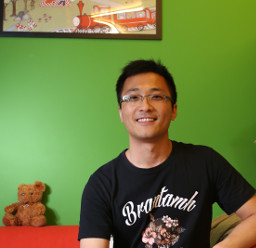
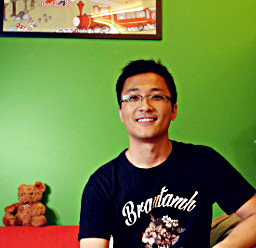
Update broken links; add metadata articles

diff --git a/source/_posts/2018-01-11-metadata-part2.md b/source/_posts/2018-01-11-metadata-part2.md
@@ -1,0 +1,62 @@
+---
+title: 元数据的可计算化反（中）
+date: 2018-01-11
+comments: true
+categies:
+  - DataScience
+tags:
+  - Metadata
+---
+
+题解：这个《元数据》系列本计划介绍一种有关数据的科技讯息，上篇完成后有读者反馈并非人人都懂技术，首当其冲便是这个看不懂的反人类题目。正巧元旦节期出游了趟鲁迅先生故居，从繁糜商业气息中依稀有些关于那个过往时代的见闻。细思之下，我所目标分享的，其实不是数据也不是科技本身，而是这个和数据科技息息相关的时代。而这些狄更斯多年前已经总结完了，无妨对于当下这个时代，填些骨肉，说道说道我眼中这个“失控”的数据时代。
+
+在上一篇中我们提到了人类百万年进化出的一项功能“记忆惰性”：对纷繁复杂的外界信息经过深加工，以类似偷懒的方式，形成记忆知识并储存在大脑神经元中。因此随着年龄的增长，记忆神经元退化，甚至部分脑细胞老化导致相关知识也随之消失，也就是医学上的“阿尔兹海默症”。
+
+人类在进化过程中，不断寻找新的工具弥补自身的短板。从蒸汽革命到电气革命到计算机革命，从体力解放到脑力解放，一次次的技术更新在不断刷新人类的工具包，也不断刷新着追求更大的解放的野心。
+
+在最近一次的计算机革命中（开始于20世纪五六十年代），人们努力寻找各种工具克服自身的“记忆惰性”：不想耗费能量处理复杂的计算，电子计算机由此诞生（电影《模仿游戏》）；服务器代替了图书馆，互联网网页的扩张速度远远超过了书本的页数增长；社交网络帮你记录了所有的朋友关系和动态，大脑所需的记忆便是一个网址以及账号；机器学习算法和AI智能技术的最新进展，让人们再次萌生冲动毅然准备放弃这个上帝亲自创造的智慧灵魂。
+
+正是由于人类的“记忆惰性”这一生物制约，促进了20世纪中后期以来在计算机技术上的不断推陈出新，不断追求极致。这是最好的时代。
+
+诚然，一边是进化了百万年以上的躯体，一边是从诞生到繁荣不过六七十年的技术，二者所包含的信息匹敌远远不在一个量级。我们还有很长的路要走。人们诸多的憧憬和YY。这也是最坏的时代，一个有些失控的时代。
+
+失控不仅在主观，也在客观。计算信息技术在初期表现出很强的经济效应，这种繁荣挤压了以往的经济领域，更多的资源将目光投向“新欢”，而冷落了“旧爱”。
+
+这一繁荣正面上得益于两个信息不对称：一个早期高科技的局部繁荣与全球落后之间的不对称，这个不对称造就了少数几个早期信息强国；另一个是高科技扩散在时间上的不对称，这个不对称造就了一些较早接触到这一先机的富裕群体（体现在个人层面便是互联网业鼓吹的一夜暴富）。
+
+在整个发展尺度上看的时候，我们依然处在计算机革命的余波之中，只是波的能量在不断降低，变得有些“波澜不惊”。因为随着信息的传播时间越长、范围越广，上述两个不对称性消失得越快。结合当下，“互联网+”的声嘶力竭的呐喊，仅仅是这一波澜上的一次小小的回音，毕竟，这只是一次努力寻找当前世界中信息不对称的缝隙，而不是发现一个处女的旷地或峡谷。
+
+而之前高不对称的信息时代积累的经济红利，就像一头被困的发情公牛，也对这个所谓的“余波”阶段做了最好的注脚。在商业发展初期，尤其是农业为支撑经济的时代，商业的短期繁荣往往预示着农业的衰弱（吴晓波《浩荡两千年》）。类似地，在出现新的信息不对称机遇之前，以往的资本积累开始玩“金钱游戏”，涌入各种投机市场，此时人的欲望在金钱游戏中被利用（想想现在的金融和投资市场）。这种投机短期来讲对于实体经济有些甜头，但是长期来讲可是会伤筋动骨的。
+
+失控也蕴含着机遇。在计算机革命初期较大的信息化行动之后，人类不仅积累的财富，同时造就了一台覆盖全球的数字机器。这一机器以互联网为载体，连接着数以百亿记的各类数字化信息化设备，7x24小时马力全开地产生着源源不断比特数据。
+
+这一机器在不断自我完善，在便捷我们人类生活的同时，也在不断挑战我们人类自身。好吧，不要嫌我烦，这里又要提我们自身的生物约束，“记忆惰性”。
+
+我们本以为这台机器会帮我们很好的保留信息，可惜的是，一个网页的平均寿命数量级在1000天左右（10.1109/JCDL.2014.6970226）。“记忆惰性”本能地促使人们开始认真思考，如何更好地将我们所在时代的信息有效的留存下来？换句话说，如何从这些海量的数据中萃取出有价值的信息，并借助机器或人类本身，将其存储为知识。
+
+这一内在的冲动，也正是我眼中的这些年技术发展的内在驱动。这种冲动如此强烈，甚至有些焦虑的迹象，以至于可以在短期内，被一个“人狗大战”（记得阿法狗AlphaGo？）的报道搞得热血沸腾，媒体也拿出了可以媲美当年人类登月前后的脑洞和激情。《星球大战》和《星际迷航》系列便诞生在那个时候，很多国内外创业者都表示喜欢这两部作品，或许因为大家都处在相似的年代吧！
+
+这一内在的冲动也并非纯粹的热血。21世纪初几乎火遍全球的“大数据”（也许除了南北极和少有的几个原始部落），便是人们拿出的针对这一焦虑的初期方案。这个方案所起到的实际效果，在笔者看来，布道的成效远大于实际效益本身。
+
+从布道的角度，人们开始认真思考计算机革命的初期不对称性即将消失的时候，如何面对数字机器7x24小时的生产力和人类自身“记忆惰性”之间的矛盾。这一矛盾实际上在积累新的不对称性，新的不对称性同时需要新的能力去解决（当然不仅仅是科技，包括经济、政治、甚至人类认知本身的提升）。这种新的不对称性我们在会详述。
+
+集体的共识往往是在集体的焦虑中达成的。
+
+这几年的云计算、大数据、人工智能技术热，无非在帮助人们从计算、数据、算法维度探索一条走出当前焦虑的道路。这些技术本身并不是我想讨论的重点，否则容易为一木而舍一林（虽然平时80%的时间都在做这些事情）。
+
+这条道路本身建立在新的不对称性之上。不过在笔者看来，这些在新的不对称性积累的初期阶段，新的科技都是相辅相成的，在未来的某个时间、空间点上，大家将会汇聚一起（当然发展过程中也在不断融合），产生更多的突破和能量，从另一个层次上破解新的不对称性难题。
+
+因此可以说，我们处在一个失控、但又可能是最好的时代。这时候请我们再默念下略有修改的狄更斯先生的箴言，会有更多感触：
+
+
+这是一个最坏的时代，这是一个最好的时代；
+
+这是一个愚蠢的年代，这是一个智慧的年代
+
+......
+
+（未完待续，版权归作者所有，引用请注明出处）
+
+下篇摘要：
+
+在数字化世界里，信息被“拍平”，转换成文字图像，以“超高清”方式记录在网络媒介上。这种“超高清”方式喻指，一个故事的梗概和细节同时被记录，且表示为无差别的表达形式（如文字或像素）。例如，一篇数字化了的文章记录的故事，梗概部分不会随着时间流逝而凸显，细节的部分也不会随着时间流逝而消失。如何借助于人类的“记忆惰性”，实现从数据-->信息-->知识的蜕变的同时，降低人类个体获取信息的成本。这一趋势开始于21世纪初，新技术的蓬勃带来了“信息孤岛”效应，以及数据壁垒，进而造成新的信息不对称....

diff --git a/source/_posts/2018-01-03-metadata-part1.md b/source/_posts/2018-01-03-metadata-part1.md
@@ -1,0 +1,29 @@
+---
+title: 元数据的可计算化反（上）
+date: 2018-01-03
+comments: true
+categies:
+  - DataScience
+tags:
+  - Metadata
+---
+
+元数据，如果按字面释义，是最基本的数据。元，即初始、本源之意。在数据领域，元数据（Metadata）指“描述数据的数据”，记录了一个数据集的基础信息。
+
+如果把数据集比作一个人的话，元数据就像是一张肖像简笔画。一个人能够通过画面认识另一个人（比如杨过在古墓迷恋上神仙姐姐的画像，并倾慕爱恋），是因为画已记录了此人的主要特征；同时这一认知过程又是不完备的，因为那只是一张梗概，缺少骨肉，丢失细节。但这足以说明，通过元信息这一梗概，我们足以抓住被描述主体的主要部分。
+
+本文笔者试图探索有关元数据的两个方面的问题，一是元数据在我们人类理解世界这一过程中所扮演的角色，另一个对于打破我们人类社会面临的信息壁垒、数据孤岛，元数据提供了怎样一种途径、以及如何发挥作用。
+
+带着上述简笔画的例子，让我们类比一下人类大脑处理外界信息的过程。由于我们生活在三维世界中，遥远的祖先和我们现在一样，首先感知到的关于这个世界的元信息便是“长-宽-高”。通过对空间尺寸的感知，形成了对外界陌生物体的第一印象，并积极调动经验知识，对这一几何尺度做出最初的判断，如形态、重量等，进而通过细节观察，判断出对方是石头亦或狮子，安全亦或危险，并作出大脑的应激反应。（对于更高维，有兴趣读者可以独自探索下，一种形象的例子在科幻小说《三体》黑暗森林中有描述）
+
+这一思维过程，通常倏忽急逝，随着个人年龄的增长，经验的增多，这一过程更加熟练。但是不经意间，在这一过程中我们多次调用了大脑对于“元信息”的处理能力，并可以总结为“元信息--知识--元信息”的处理模式。
+
+首先，通过感官如眼睛，人类脑不断摄入外界的细节信息，这些细节作为描述被观察对象的局部元信息，源源不断地被大脑吸收，并不断地与大脑中已储存的经验知识进行对比判断，与经验完美符合的部分，大脑往往选择忽略，并潜意识加固已有的知识，也就是常说的“熟视无睹”。
+
+但是对于异常的部分，例如带来惊喜、惊讶、恐惧的感觉，通常会刺激大脑对这一知识进行进一步处理。当代认知理论认为，大脑会对由大量局部细节信息构成的整体进行删减，形成一般性的知识，并转化为另外一种形式的元信息，记录在大脑神经元之中，以备下次调用，这便是我们所说的“经验”。
+
+当然，这些元信息如何表达、以及被我们大脑存储，依然是我们种族的重要待解谜之一。
+
+这种元信息记录的方式，不妨假设为大脑处于自我保护的一种“偷懒”行为。一来降低身体的能量消耗，毕竟处理和记忆更多的信息，需要消耗更多的体能。二来随着神经元的代谢，旧的知识会消失或消退，为新的知识记忆腾出空间，这意味着“元信息模式”有助于利用有限的大脑资源，记录更多的经验知识。
+
+这种信息处理模式，在数字信息爆发的时代，同时构成了人类的认知负担，抑或局限。

diff --git a/source/about/index.md b/source/about/index.md
@@ -3,13 +3,13 @@ title: about
 date: 2016-05-27 17:29:14
 ---
 
-![Xiaming Chen](/images/default_avatar_m3.jpg)
+![Xiaming Chen](/images/default_avatar_m4.jpg)
 © Rourou
 
 Ph.D, a new title for me since 09/2016, after a six-year long run to this goal. This is not a stop, yet another new start for me. My thesis advisor was Prof. [Yaohui Jin](http://front.sjtu.edu.cn/~jinyh/) at [Shanghai Jiao Tong Univ.](http://en.sjtu.edu.cn/). Now [the thesis](https://github.com/caesar0301/phd-dissertation) is open for public (just in Chinese version, officially). Before that, I received my B.S. of Optical Information and Science Technology at Xidian University since 2010.
 
 Shortly put, my Ph.D research was on renewed models and characteristics of human mobility, with advanced statistical techniques and large-scale network traffic. There is a large gap between observable behavioral patterns and digital bits, as collected from raw network data, such as mobile geo-locations, application traffic etc.. Advanced analysis and modeling approaches are still in a shortage. This shortage inspires my initial efforts on the work. Since then, I become a data enthusiast.
 
-A previous painful searching for high-quality research data urges me to start the [awesome-public-data community](https://github.com/APD-ORG). I reviewed hundreds of web pages, research papers, personal blogs and so on to make a tidy list of high-quality datasets in public domains. This community is activated since then. Hundreds of guys have contributed and helped to validate the items. Many thanks to them!
+A previous painful searching for high-quality research data urges me to start the [awesome-public-data community](https://github.com/awesomedata). I reviewed hundreds of web pages, research papers, personal blogs and so on to make a tidy list of high-quality datasets in public domains. This community is activated since then. Hundreds of guys have contributed and helped to validate the items. Many thanks to them!
 
 Now I get payed for a job of designing data platforms @transwarpio, China. I met many genius engineering guys here and learned more from them. I fabricated a new motto as inspired by them, "Learn more beyond what you can imagine." I love reading, traveling, and my family. I also program some [useful data analysis tools](http://xiaming.me/projects) in Python, Scala, and R. During spare time, Am working on the next iteration of APD and expecting a novel form of the power of data. If you interested in that, review my related [previous posts](http://xiaming.me/archives/).
